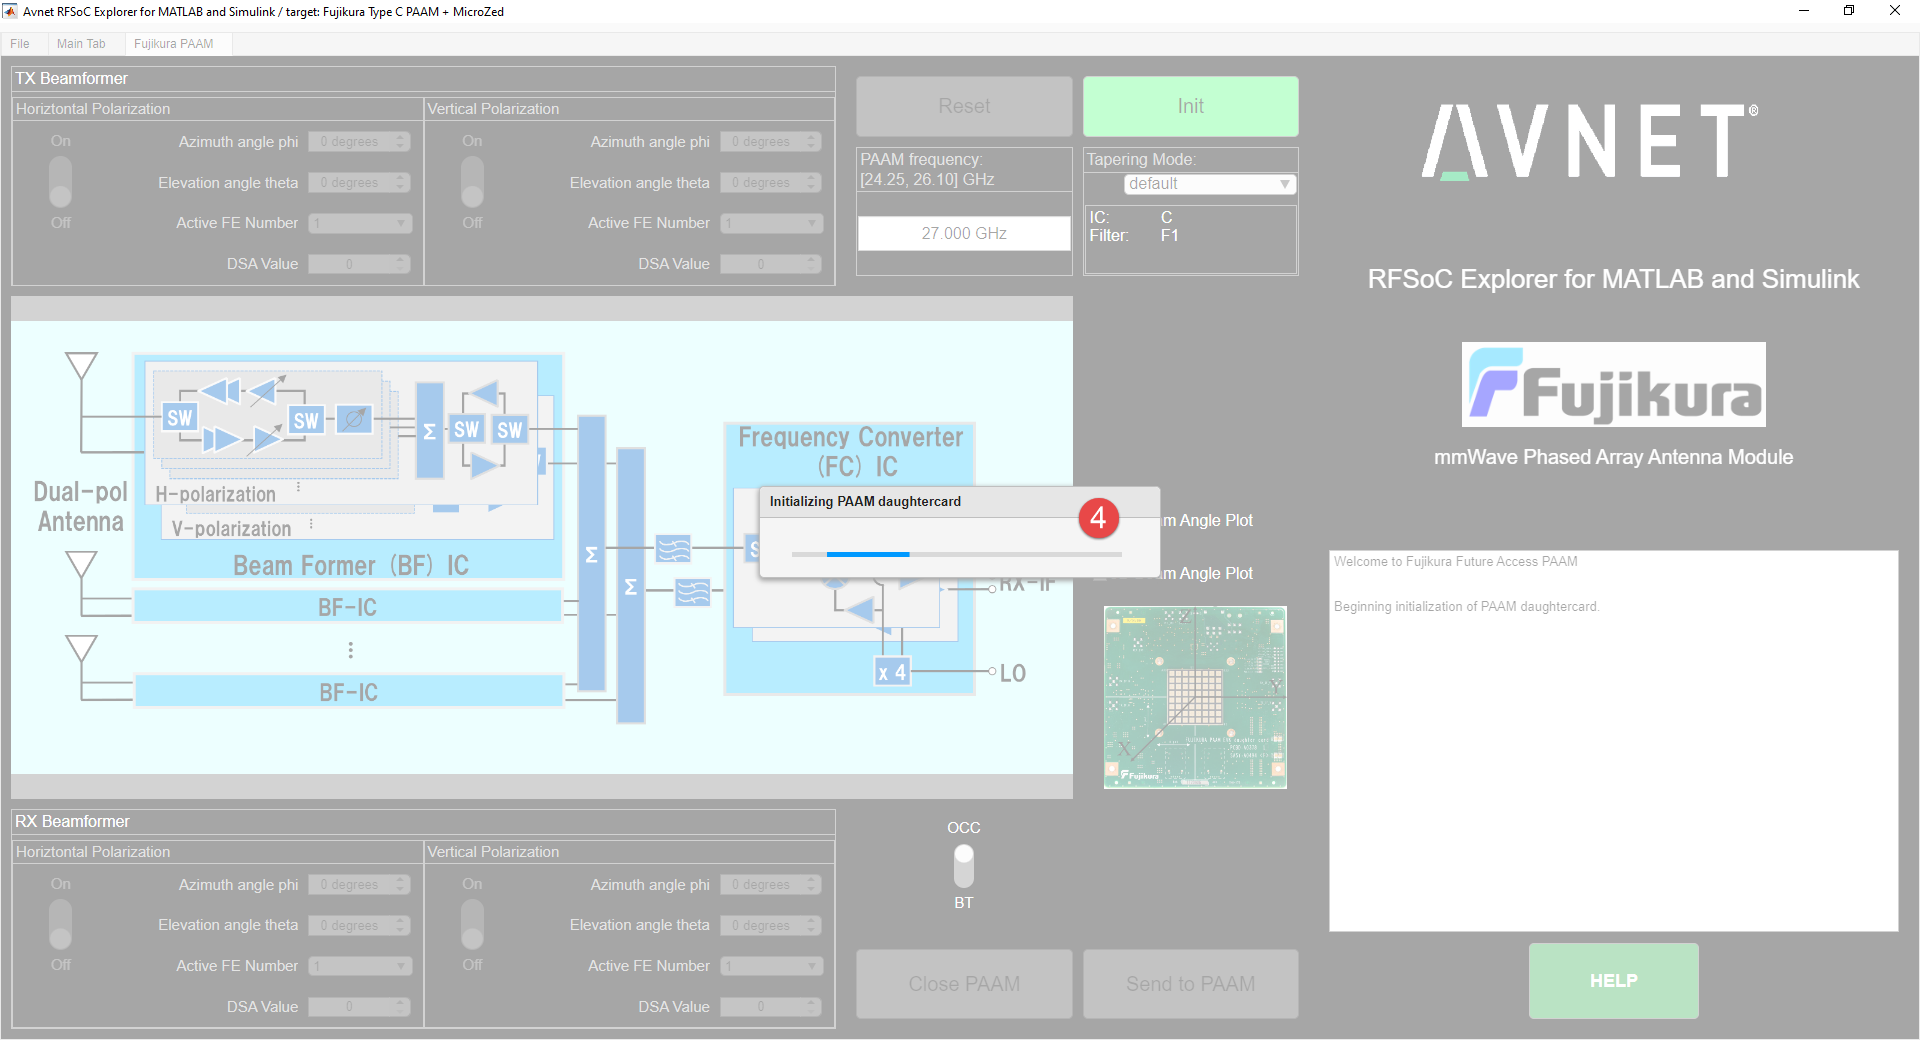
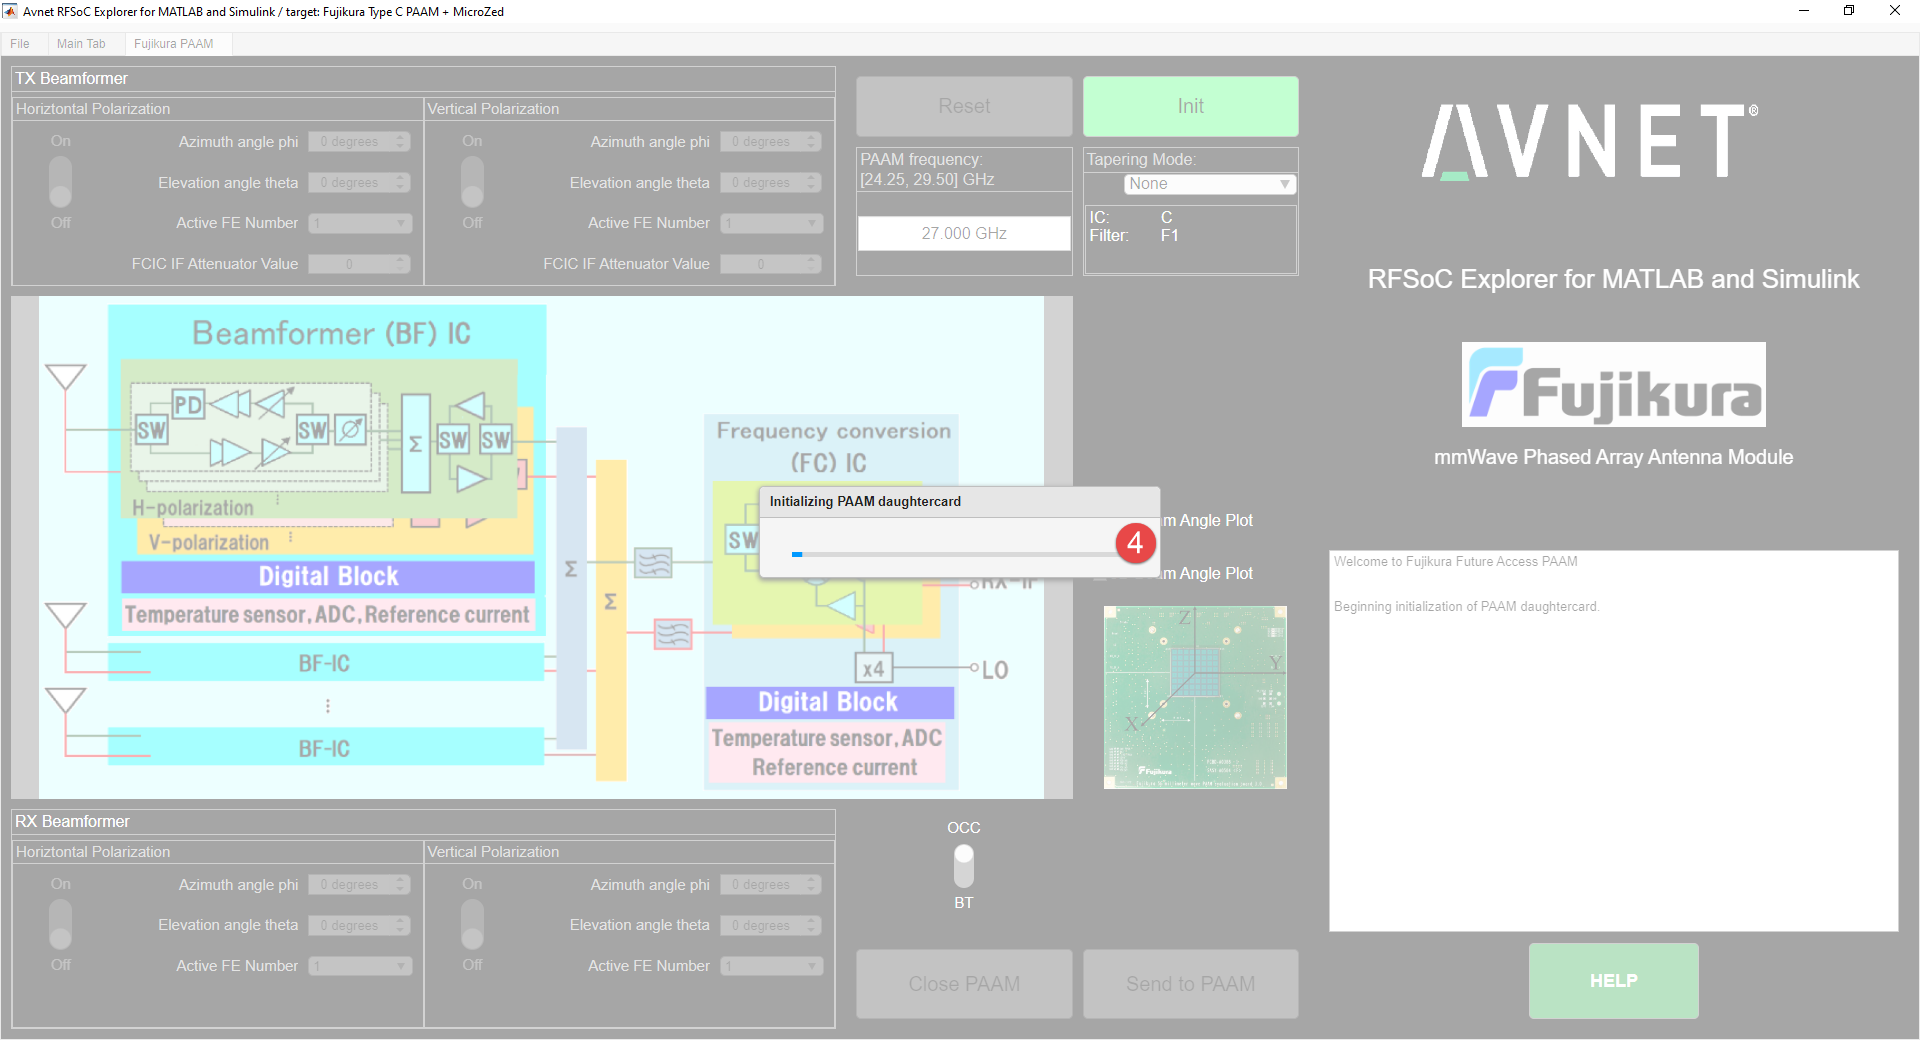
Updated screenshots for FJK-Type C Fujikura PAAM tab

diff --git a/README.md b/README.md
@@ -76,8 +76,10 @@ If you are interested in the Fujikura Task-A/B PAAM documentation, please see th
 
 7. [Testing the RFSoC Explorer Digital Interface](#testing-the-rfsoc-explorer-digital-interface)
 
+<!-- This is a comment in Markdown and won't appear in the rendered document. -->
+<!--
     7.1 [ADC and DAC Control Tab ](#adc-and-dac-control-tab)
-
+-->
 8. [Fixture for the Daughtercard](#fixture-for-the-daughtercard)
 
     8.1 [Daughtercard installation on the fixing stand](#daughtercard-installation-on-the-fixing-stand)
@@ -692,21 +694,25 @@ In MATLAB, enter:
 >> Avnet_RFSoC_Explorer('startup', 'board_id', 9)
 ```
 
-This should bring up the RFSoC Explorer GUI. If you have not connected
-to a ZCU208 before, the IP address should be red and “DISCONNECTED", as
-below.
+This should bring up the RFSoC Explorer GUI, starting with the Main Tab. There are two IP addresses that have to be entered, one for the ZCU208 and the other for the MicroZed.  
+- The ZCU208's IP address should be displayed as in the [Completed boot sequence](#figure-ZCU208-booted) figure.<br>
+- The MicroZed's IP address is specified in the "uz_network_settings.txt" file on its Micro SD card.<br>
 
-<img src="./media/image27a.png" style="width:6.5in;height:3.52083in" />
+It may be necessary to modify your default IP address if you need a different network sub-net, for instance.  If, for example, your ZCU208 is on an IP address 192.168.__0__.102, you could use a text editor to modify the MicroZed IP address from the default of 192.168.__1__.10 to 192.168.__0__.10.<br>
+<img src="./media/uz-network-settings.png" style="width:6.5in;height:auto;" /><br>
 
-If you have entered an IP address before, the utility will try to
-connect automatically. If connection was successful, the IP address will
+If you have not connected to a ZCU208 or PAAM EVB before, the IP addresses should be red and “DISCONNECTED", as below.
+
+<img src="./media/ips-all-disconnected.png" style="width:6.5in;height:auto;" /><br>
+
+
+If you have entered an IP address before, the utility will try to connect automatically. If connection was successful, the IP address will
 be black,  
-<img src="./media/image28a.png"
-style="width:3.89142in;height:1.25019in" />  
+<img src="./media/board-ips-both-ok.png" style="width:3.5in;height:auto;" /><br>
+
 and it will be available in the drop-down for future sessions.
 
-<img src="./media/image29a.png"
-style="width:3.84328in;height:1.59395in" />
+<img src="./media/ip-address-drop-down.png" style="width:3.5in;height:auto;" /><br>
 
 Once connected:
 
@@ -728,15 +734,14 @@ Once connected:
 
 <img src="./media/paam-init-success.png" style="width:6.5in;height:auto;" /><br>
 
-6.  You can now make changes to some PAAM controls. In the image below Tx Vertical Polarization is turned on and the DSA value is changed to 5. Note that the **<span class="mark">Send to
+6.  You can now make changes to some PAAM controls. In the image below __Tx Vertical Polarization__ is turned __On__ and the __FCIC IF Attenuator Value__ is changed to 5. Note that the **<span class="mark">Send to
     PAAM</span>** button has turned green. These changes on the GUI will only take effect on the hardware once **Send to PAAM** is clicked.
 
 <img src="./media/send-to-paam1.png" style="width:6.5in;height:auto;" /><br>
 
-7.  Send to PAAM will turn grey again and updated PAAM settings will be
-    displayed in the dialog box, and the image of the PAAM will be updated to show the active elements on the array.
+7.  Send to PAAM will turn grey again and updated PAAM settings will be displayed in the dialog box.  The image of the PAAM will also be updated to show the active elements on the array.
 
-<img src="./media/image34a.png" style="width:6.5in;height:3.52083in" />
+<img src="./media/send-to-paam2.png" style="width:6.5in;height:auto;" /><br>
 
 8. If you wish to see the 2D elevation and azimuth plots or a 3D plot which approximate the beampattern of an array of 5G antenna elements, check the boxes next to the 2D/3D Beam Angle Plot text before sending the settings to the PAAM. 
    
@@ -744,6 +749,8 @@ Once connected:
 
 <img src="./media/image35a.png" style="width:6.5in;height:3.52083in" />
 
+<!-- This is a comment in Markdown and won't appear in the rendered document. -->
+<!--
 ## 7.1 ADC and DAC Control Tab <a name="adc-and-dac-control-tab"></a>
     
 The Fujikura PAAM Daughtercard includes the ability to measure and adjust all system voltage rails by way of onboard ADCs and DACs. The ADC/DAC tab allows for reading ADC values and writing DAC values. As part of a successful initialization of the PAAM by Avnet RFSoC Explorer, default values will be written to enable the DAC channels.
@@ -755,7 +762,7 @@ Each of the rails has a text field in which to enter the desired output voltage,
 > NOTE: Most users will not need to adjust the DAC values.
 
 <img src="./media/fjk-adc-dac-control.PNG" style="width:6.5in;height:3.52083in" />
-
+-->
 # 8) Fixture for the Daughtercard <a name="fixture-for-the-daughtercard"></a>
 
 ## 8.1 Daughtercard installation on the fixing stand <a name="daughtercard-installation-on-the-fixing-stand"></a>
